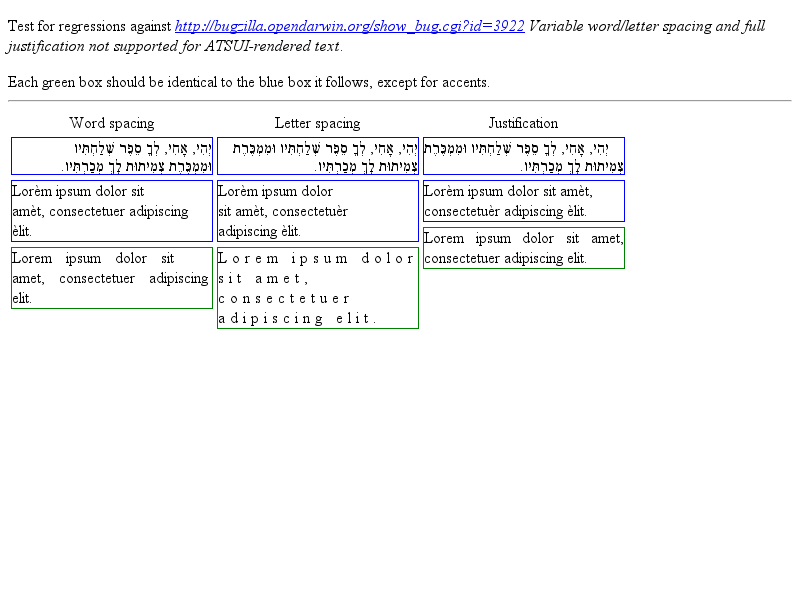
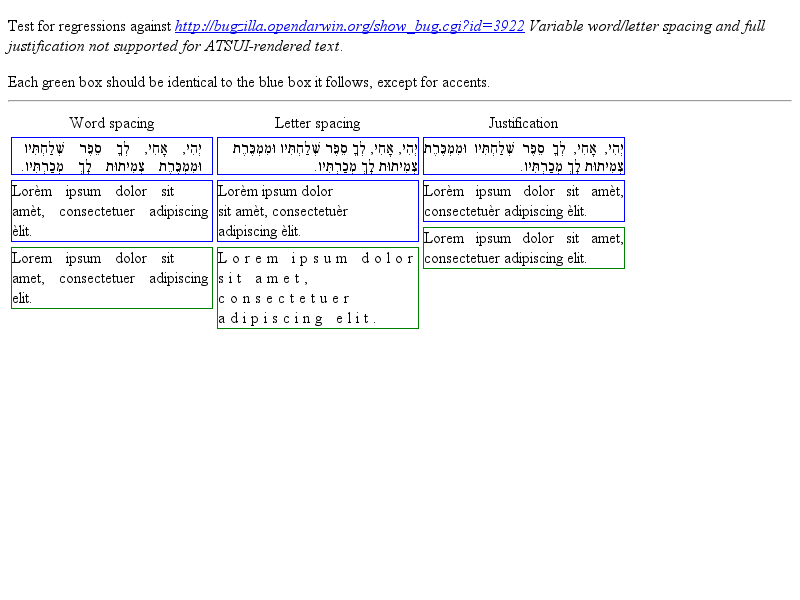
2010-08-16  Adam Langley  <agl@chromium.org>
Reviewed by Tony Chang.

        [chromium] Improve spacing support for complex text on Linux

        https://bugs.webkit.org/show_bug.cgi?id=39014

        Previously, our complex text support ignored word-spacing,
        justification and letter-spacing. This fixes the first two issues and
        allows us to render Scribd's HTML5 documents much better.

        Test: fast/text/atsui-spacing-features.html

        * platform/graphics/chromium/FontLinux.cpp:
        (WebCore::TextRunWalker::TextRunWalker):
        (WebCore::TextRunWalker::setWordSpacingAdjustment):
        (WebCore::TextRunWalker::setLetterSpacingAdjustment):
        (WebCore::TextRunWalker::setPadding):
        (WebCore::TextRunWalker::setGlyphXPositions):
        (WebCore::TextRunWalker::isCodepointSpace):
        (WebCore::Font::drawComplexText):
        (WebCore::Font::floatWidthForComplexText):
        (WebCore::Font::offsetForPositionForComplexText):
        (WebCore::Font::selectionRectForComplexText):

Identifier: 56228@main
git-svn-id: https://svn.webkit.org/repository/webkit/trunk@65428 268f45cc-cd09-0410-ab3c-d52691b4dbfc

Changed region(s): [[0.0312, 0.24, 0.2812, 0.36], [0.5938, 0.3, 0.7812, 0.33], [0.5938, 0.24, 0.7812, 0.27]]

diff --git a/WebCore/platform/graphics/chromium/FontLinux.cpp b/WebCore/platform/graphics/chromium/FontLinux.cpp
@@ -166,6 +166,9 @@ public:
         , m_offsetX(m_startingX)
         , m_run(getTextRun(run))
         , m_iterateBackwards(m_run.rtl())
+        , m_wordSpacingAdjustment(0)
+        , m_padding(0)
+        , m_padError(0)
     {
         // Do not use |run| inside this constructor. Use |m_run| instead.
 
@@ -205,6 +208,56 @@ public:
         delete[] m_item.log_clusters;
         if (m_item.item.bidiLevel)
             delete[] m_item.string;
+    }
+
+    // setWordSpacingAdjustment sets a delta (in pixels) which is applied at
+    // each word break in the TextRun.
+    void setWordSpacingAdjustment(int wordSpacingAdjustment)
+    {
+        m_wordSpacingAdjustment = wordSpacingAdjustment;
+    }
+
+    // setLetterSpacingAdjustment sets an additional number of pixels that is
+    // added to the advance after each output cluster. This matches the behaviour
+    // of WidthIterator::advance.
+    //
+    // (NOTE: currently does nothing because I don't know how to get the
+    // cluster information from Harfbuzz.)
+    void setLetterSpacingAdjustment(int letterSpacingAdjustment)
+    {
+        m_letterSpacing = letterSpacingAdjustment;
+    }
+
+    bool isWordBreak(unsigned i, bool isRTL)
+    {
+        if (!isRTL)
+            return i && isCodepointSpace(m_item.string[i]) && !isCodepointSpace(m_item.string[i - 1]);
+        return i != m_item.stringLength - 1 && isCodepointSpace(m_item.string[i]) && !isCodepointSpace(m_item.string[i + 1]);
+    }
+
+    // setPadding sets a number of pixels to be distributed across the TextRun.
+    // WebKit uses this to justify text.
+    void setPadding(int padding)
+    {
+        m_padding = padding;
+        if (!m_padding)
+            return;
+
+        // If we have padding to distribute, then we try to give an equal
+        // amount to each space. The last space gets the smaller amount, if
+        // any.
+        unsigned numWordBreaks = 0;
+        bool isRTL = m_iterateBackwards;
+
+        for (unsigned i = 0; i < m_item.stringLength; i++) {
+            if (isWordBreak(i, isRTL))
+                numWordBreaks++;
+        }
+
+        if (numWordBreaks)
+            m_padPerWordBreak = m_padding / numWordBreaks;
+        else
+            m_padPerWordBreak = 0;
     }
 
     void reset()
@@ -453,8 +506,15 @@ private:
     void setGlyphXPositions(bool isRTL)
     {
         double position = 0;
+        // logClustersIndex indexes logClusters for the first (or last when
+        // RTL) codepoint of the current glyph.  Each time we advance a glyph,
+        // we skip over all the codepoints that contributed to the current
+        // glyph.
+        unsigned logClustersIndex = isRTL ? m_item.num_glyphs - 1 : 0;
+
         for (int iter = 0; iter < m_item.num_glyphs; ++iter) {
-            // Glyphs are stored in logical order, but for layout purposes we always go left to right.
+            // Glyphs are stored in logical order, but for layout purposes we
+            // always go left to right.
             int i = isRTL ? m_item.num_glyphs - iter - 1 : iter;
 
             m_glyphs16[i] = m_item.glyphs[i];
@@ -462,10 +522,46 @@ private:
             m_xPositions[i] = m_offsetX + position + offsetX;
 
             double advance = truncateFixedPointToInteger(m_item.advances[i]);
+            unsigned glyphIndex = m_item.item.pos + logClustersIndex;
+            if (isWordBreak(glyphIndex, isRTL)) {
+                advance += m_wordSpacingAdjustment;
+
+                if (m_padding > 0) {
+                    unsigned toPad = roundf(m_padPerWordBreak + m_padError);
+                    m_padError += m_padPerWordBreak - toPad;
+
+                    if (m_padding < toPad)
+                        toPad = m_padding;
+                    m_padding -= toPad;
+                    advance += toPad;
+                }
+            }
+
+            // We would like to add m_letterSpacing after each cluster, but I
+            // don't know where the cluster information is. This is typically
+            // fine for Roman languages, but breaks more complex languages
+            // terribly.
+            // advance += m_letterSpacing;
+
+            if (isRTL) {
+                while (logClustersIndex > 0 && logClusters()[logClustersIndex] == i)
+                    logClustersIndex--;
+            } else {
+                while (logClustersIndex < m_item.num_glyphs && logClusters()[logClustersIndex] == i)
+                    logClustersIndex++;
+            }
+
             position += advance;
         }
+
         m_pixelWidth = position;
         m_offsetX += m_pixelWidth;
+    }
+
+    static bool isCodepointSpace(HB_UChar16 c)
+    {
+        // This matches the logic in RenderBlock::findNextLineBreak
+        return c == ' ' || c == '\t';
     }
 
     void mirrorCharacters(UChar* destination, const UChar* source, int length) const
@@ -498,6 +594,14 @@ private:
     OwnArrayPtr<UChar> m_normalizedBuffer; // A buffer for normalized run.
     const TextRun& m_run;
     bool m_iterateBackwards;
+    int m_wordSpacingAdjustment; // delta adjustment (pixels) for each word break.
+    float m_padding; // pixels to be distributed over the line at word breaks.
+    float m_padPerWordBreak; // pixels to be added to each word break.
+    float m_padError; // |m_padPerWordBreak| might have a fractional component.
+                      // Since we only add a whole number of padding pixels at
+                      // each word break we accumulate error. This is the
+                      // number of pixels that we are behind so far.
+    unsigned m_letterSpacing; // pixels to be added after each glyph.
 };
 
 static void setupForTextPainting(SkPaint* paint, SkColor color)
@@ -534,6 +638,9 @@ void Font::drawComplexText(GraphicsContext* gc, const TextRun& run,
 
     TextRunWalker walker(run, point.x(), this);
     bool haveMultipleLayers = isCanvasMultiLayered(canvas);
+    walker.setWordSpacingAdjustment(wordSpacing());
+    walker.setLetterSpacingAdjustment(letterSpacing());
+    walker.setPadding(run.padding());
 
     while (walker.nextScriptRun()) {
         if (fill) {
@@ -553,6 +660,8 @@ void Font::drawComplexText(GraphicsContext* gc, const TextRun& run,
 float Font::floatWidthForComplexText(const TextRun& run, HashSet<const SimpleFontData*>* /* fallbackFonts */, GlyphOverflow* /* glyphOverflow */) const
 {
     TextRunWalker walker(run, 0, this);
+    walker.setWordSpacingAdjustment(wordSpacing());
+    walker.setLetterSpacingAdjustment(letterSpacing());
     return walker.widthOfFullRun();
 }
 
@@ -588,6 +697,8 @@ int Font::offsetForPositionForComplexText(const TextRun& run, float xFloat,
     // (Mac code ignores includePartialGlyphs, and they don't know what it's
     // supposed to do, so we just ignore it as well.)
     TextRunWalker walker(run, 0, this);
+    walker.setWordSpacingAdjustment(wordSpacing());
+    walker.setLetterSpacingAdjustment(letterSpacing());
 
     // If this is RTL text, the first glyph from the left is actually the last
     // code point. So we need to know how many code points there are total in
@@ -664,6 +775,8 @@ FloatRect Font::selectionRectForComplexText(const TextRun& run,
 {
     int fromX = -1, toX = -1, fromAdvance = -1, toAdvance = -1;
     TextRunWalker walker(run, 0, this);
+    walker.setWordSpacingAdjustment(wordSpacing());
+    walker.setLetterSpacingAdjustment(letterSpacing());
 
     // Base will point to the x offset for the current script run. Note that, in
     // the LTR case, width will be 0.
